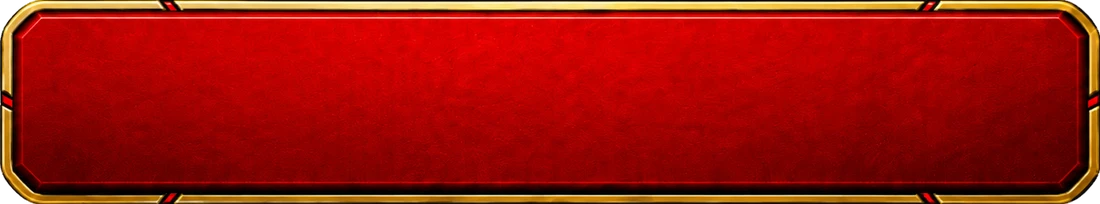
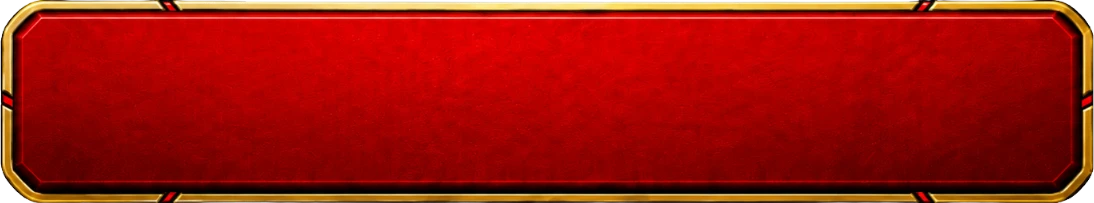
New fight btn art (full-bleed); tighter vertical grouping (margin -10)

diff --git a/src/styles.css b/src/styles.css
@@ -147,7 +147,7 @@ h4 { margin: 16px 0 8px; font-size: 13px; color: var(--dim); text-transform: upp
 .home-bottom { position: absolute; left: 0; right: 0; bottom: 0; z-index: 4; padding: 0 12px calc(env(safe-area-inset-bottom) + 8px); background: linear-gradient(transparent, #07080f 32%); display: flex; flex-direction: column; align-items: stretch; gap: 0; }
 .home-info { display: flex; flex-direction: column; align-items: center; gap: 0; }
 .home-info .lvl { font-size: 13px; font-weight: 700; }
-.nav-main { position: relative; display: block; width: calc(100% + 24px); margin: -6px -12px; padding: 0; border: none; background: none; transition: transform .07s ease, filter .07s ease; filter: drop-shadow(0 4px 10px #000); }
+.nav-main { position: relative; display: block; width: calc(100% + 24px); margin: -10px -12px; padding: 0; border: none; background: none; transition: transform .07s ease, filter .07s ease; filter: drop-shadow(0 4px 10px #000); }
 .nav-bg { display: block; width: 100%; height: auto; }
 .nav-label { position: absolute; inset: 0; display: flex; align-items: center; justify-content: center; gap: 10px; color: #fff; font-weight: 900; font-size: 26px; letter-spacing: 1.5px; text-shadow: 0 2px 4px #000, 0 0 10px #0009; pointer-events: none; }
 .nav-label .gi, .nav-label .gi-emoji { filter: drop-shadow(0 2px 3px #000); }